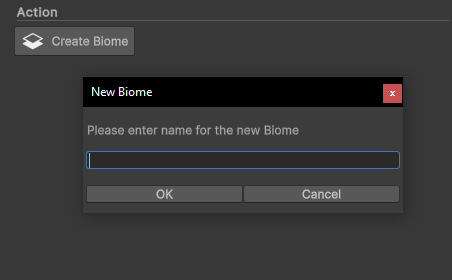
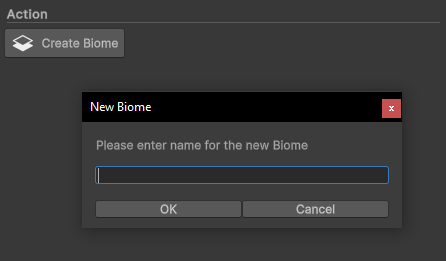
Add a bit of horizontal padding

diff --git a/Editor/EditorPrompt.cs b/Editor/EditorPrompt.cs
@@ -50,15 +50,20 @@ namespace JD.Prompt
             }
 
             // Draw our control
-            var rect = EditorGUILayout.BeginVertical();
+            var rect = EditorGUILayout.BeginHorizontal();
+            EditorGUILayout.Space(0);
+            
+            EditorGUILayout.BeginVertical();
 
             EditorGUILayout.Space(12);
             EditorGUILayout.LabelField(_description);
 
             EditorGUILayout.Space(8);
+
             GUI.SetNextControlName("inText");
             _inputText = EditorGUILayout.TextField("", _inputText);
             GUI.FocusControl("inText"); // Focus text field
+            
             EditorGUILayout.Space(12);
 
             // Draw OK / Cancel buttons
@@ -80,6 +85,9 @@ namespace JD.Prompt
             EditorGUILayout.Space(8);
             EditorGUILayout.EndVertical();
 
+            EditorGUILayout.Space(0);
+            EditorGUILayout.EndHorizontal();
+            
             // Force change size of the window
             if (rect.width != 0 && minSize != rect.size)
             {

diff --git a/README.md b/README.md
@@ -22,6 +22,8 @@ Add the dependency to your `manifest.json`
 var name = EditorPrompt.Show("New Biome", "Please enter name for the new Biome", "");
 ```
 
+*(it's supoer annoying but there wasn't any obvious way to add a small right padding to the X close button on the modal, this seems like a Unity bug...)*
+
 ## Credits
 
 Originally from [Vedran_M](https://discussions.unity.com/u/Vedran_M) on [Unity Forum](https://discussions.unity.com/t/is-there-a-way-to-input-text-using-a-unity-editor-utility/666472/9)
